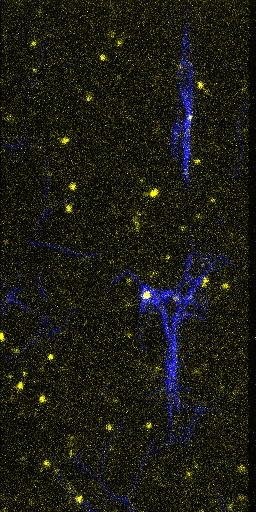
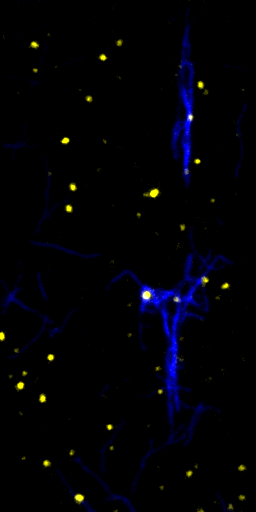
Denoise ON-to-OFF poster panels

diff --git a/parking/vis/on_to_off_panels.py b/parking/vis/on_to_off_panels.py
@@ -7,6 +7,7 @@ import matplotlib.pyplot as plt
 import numpy as np
 import tifffile
 from joblib import Parallel, delayed
+from scipy.ndimage import gaussian_filter
 
 
 ROOT = Path(__file__).resolve().parents[2]
@@ -16,8 +17,10 @@ CACHE_PATH = UNIT_DIR / "cache" / "on_to_off_panels.npz"
 OUTPUT_DIR = UNIT_DIR / "plots" / "on_off_panels"
 
 PANEL_COUNT = 5
-CONTRAST_SURVEY_FRAMES = 240
-LOW_PERCENTILE = 1.0
+TEMPORAL_WINDOW_FRAMES = 5
+SPATIAL_SMOOTH_SIGMA_PIXELS = 0.65
+ROBUST_MAD_SCALE = 1.4826
+BACKGROUND_STANDARD_DEVIATIONS = 3.0
 HIGH_PERCENTILE = 99.8
 PARALLEL_WORKERS = os.cpu_count() or 1
 
@@ -50,34 +53,85 @@ def build_cache():
         frame_count = len(tif.pages)
 
     frame_indices = np.linspace(0, frame_count - 1, PANEL_COUNT, dtype=int)
-    survey_indices = np.linspace(
-        0,
-        frame_count - 1,
-        CONTRAST_SURVEY_FRAMES,
-        dtype=int,
+    half_window = TEMPORAL_WINDOW_FRAMES // 2
+    window_indices = []
+    for frame_index in frame_indices:
+        start = min(
+            max(int(frame_index) - half_window, 0),
+            frame_count - TEMPORAL_WINDOW_FRAMES,
+        )
+        window_indices.append(
+            np.arange(start, start + TEMPORAL_WINDOW_FRAMES, dtype=int)
+        )
+    window_indices = np.asarray(window_indices)
+    source_indices = np.unique(window_indices)
+    source_frames = read_frames(source_indices).astype(np.float32)
+    source_lookup = {
+        int(frame_index): position
+        for position, frame_index in enumerate(source_indices)
+    }
+    averaged_frames = np.stack(
+        [
+            source_frames[
+                [source_lookup[int(frame_index)] for frame_index in window]
+            ].mean(axis=0)
+            for window in window_indices
+        ]
     )
-    survey_frames = read_frames(survey_indices)
-    split_column = survey_frames.shape[2] // 2
-    motor_limits = np.percentile(
-        survey_frames[:, :, :split_column],
-        [LOW_PERCENTILE, HIGH_PERCENTILE],
+
+    split_column = averaged_frames.shape[2] // 2
+    motor_frames = gaussian_filter(
+        averaged_frames[:, :, :split_column],
+        sigma=(0, SPATIAL_SMOOTH_SIGMA_PIXELS, SPATIAL_SMOOTH_SIGMA_PIXELS),
+        mode="nearest",
     )
-    selected_frames = read_frames(frame_indices)
-    rail_limits = np.percentile(
-        selected_frames[:, :, split_column:],
-        [LOW_PERCENTILE, HIGH_PERCENTILE],
+    rail_frames = gaussian_filter(
+        averaged_frames[:, :, split_column:],
+        sigma=(0, SPATIAL_SMOOTH_SIGMA_PIXELS, SPATIAL_SMOOTH_SIGMA_PIXELS),
+        mode="nearest",
+    )
+
+    motor_median = float(np.median(motor_frames))
+    motor_mad = float(np.median(np.abs(motor_frames - motor_median)))
+    motor_black = (
+        motor_median
+        + BACKGROUND_STANDARD_DEVIATIONS * ROBUST_MAD_SCALE * motor_mad
+    )
+    motor_limits = np.asarray(
+        [motor_black, np.percentile(motor_frames, HIGH_PERCENTILE)]
+    )
+
+    rail_median = np.median(rail_frames, axis=(1, 2))
+    rail_mad = np.median(
+        np.abs(rail_frames - rail_median[:, None, None]),
         axis=(1, 2),
-    ).T
+    )
+    rail_black = (
+        rail_median
+        + BACKGROUND_STANDARD_DEVIATIONS * ROBUST_MAD_SCALE * rail_mad
+    )
+    rail_white = np.percentile(
+        rail_frames,
+        HIGH_PERCENTILE,
+        axis=(1, 2),
+    )
+    rail_limits = np.column_stack((rail_black, rail_white))
 
     np.savez_compressed(
         CACHE_PATH,
         frame_indices=frame_indices,
-        survey_indices=survey_indices,
-        selected_frames=selected_frames,
+        window_indices=window_indices,
+        motor_frames=motor_frames,
+        rail_frames=rail_frames,
         motor_limits=motor_limits,
         rail_limits=rail_limits,
-        low_percentile=np.asarray(LOW_PERCENTILE),
         high_percentile=np.asarray(HIGH_PERCENTILE),
+        temporal_window_frames=np.asarray(TEMPORAL_WINDOW_FRAMES),
+        spatial_smooth_sigma_pixels=np.asarray(SPATIAL_SMOOTH_SIGMA_PIXELS),
+        robust_mad_scale=np.asarray(ROBUST_MAD_SCALE),
+        background_standard_deviations=np.asarray(
+            BACKGROUND_STANDARD_DEVIATIONS
+        ),
         parallel_workers=np.asarray(PARALLEL_WORKERS),
     )
 
@@ -89,10 +143,9 @@ def normalize_channel(image, limits):
     return np.clip(normalized, 0.0, 1.0)
 
 
-def compose_frame(frame, motor_limits, rail_limits):
-    split_column = frame.shape[1] // 2
-    motor = normalize_channel(frame[:, :split_column], motor_limits)
-    rail = normalize_channel(frame[:, split_column:], rail_limits)
+def compose_frame(motor_frame, rail_frame, motor_limits, rail_limits):
+    motor = normalize_channel(motor_frame, motor_limits)
+    rail = normalize_channel(rail_frame, rail_limits)
     return np.clip(
         motor[:, :, None] * MOTOR_YELLOW
         + rail[:, :, None] * RAIL_BLUE,
@@ -103,17 +156,17 @@ def compose_frame(frame, motor_limits, rail_limits):
 
 def export_panels(cache):
     OUTPUT_DIR.mkdir(parents=True, exist_ok=True)
-    frame_indices = cache["frame_indices"]
-    for panel_number, (frame_index, frame, rail_limits) in enumerate(
+    for panel_number, (motor_frame, rail_frame, rail_limits) in enumerate(
         zip(
-            frame_indices,
-            cache["selected_frames"],
+            cache["motor_frames"],
+            cache["rail_frames"],
             cache["rail_limits"],
         ),
         start=1,
     ):
         composite = compose_frame(
-            frame,
+            motor_frame,
+            rail_frame,
             cache["motor_limits"],
             rail_limits,
         )

diff --git a/parking/vis/README.md b/parking/vis/README.md
@@ -266,11 +266,13 @@
 ## Method
 
 - Load `data/on_to_off.tif` without changing the source file and select five evenly spaced frames spanning the full recording, including its first and last frames.
-- Split each selected 512-pixel-wide frame at its centre column. Treat the left half as motor fluorescence and the right half as DNA-rail fluorescence from the same scene and timepoint.
-- Determine one fixed motor display range from the 1st and 99.8th percentiles of motor pixels in 240 evenly spaced survey frames. Apply this same motor range to all five panels so motor changes remain visually comparable through time.
-- The raw rail channel photobleaches substantially. For the structural rail overlay only, apply the same 1st-to-99.8th-percentile contrast rule separately to each selected rail frame. This prevents the progressively white, overexposed rail appearance in the old GIF while preserving each frame's rail geometry.
+- Replace each selected single frame with the pixelwise mean of five consecutive raw frames centered on it when possible. Use the first five source frames for the first panel and the last five for the last panel. This suppresses frame-specific detector noise without averaging across distant experimental times.
+- Split each five-frame average at its centre column. Treat the left half as motor fluorescence and the right half as DNA-rail fluorescence from the same scene and local time window.
+- Apply a light Gaussian spatial smoothing with sigma 0.65 pixels separately to the motor and rail halves. Smoothing occurs after temporal averaging and never crosses the boundary between channels.
+- Define one motor black point as the median of all five cleaned motor images plus three robust standard deviations, where robust standard deviation is `1.4826 × median absolute deviation`. Define one motor white point as their pooled 99.8th percentile. Apply these same two motor limits to every panel so the motor progression remains comparable through time and background noise maps to black.
+- The raw rail channel photobleaches substantially. For the structural rail overlay only, calculate the same robust black point and 99.8th-percentile white point separately in each cleaned rail image. This prevents the progressively white, overexposed rail appearance in the old GIF while preserving each window's rail geometry.
 - Apply the standard ImageJ/Fiji yellow monochrome lookup table to normalized motor intensity and the blue monochrome lookup table to normalized rail intensity. Add the two RGB layers and clip at white, so motor is yellow, rail is blue, and spatial overlap is white.
-- Export each composite directly as a native-resolution lossless PNG without axes, labels, timestamps, borders, interpolation, cropping, denoising, segmentation, or spatial realignment.
+- Export each composite directly as a native-resolution lossless PNG without axes, labels, timestamps, borders, interpolation, cropping, segmentation, or spatial realignment.
 - Write the five separate images to `plots/on_off_panels/`.
 
 ## Variables
@@ -278,26 +280,29 @@
 - Data/input: `data/on_to_off.tif`, containing 2,000 raw 16-bit frames of 512 rows by 512 columns.
 - Selected zero-based frames: 0, 499, 999, 1,499, and 1,999.
 - Selected elapsed times: 0.00, 17.34, 37.03, 56.57, and 76.00 minutes from the embedded TIFF timestamps.
+- Five-frame averaging windows: 0–4, 497–501, 997–1,001, 1,497–1,501, and 1,995–1,999.
 - Panel mapping: columns 0–255 are motor proteins; columns 256–511 are DNA rails.
-- Motor contrast survey: 240 evenly spaced frames, including the recording endpoints.
-- Fixed motor display range: 311 to 2,319 raw detector units.
-- Rail display ranges: 314–10,062; 315–5,761; 314–4,601; 315–3,719; and 312–3,223 raw detector units for the five selected frames, respectively.
+- Temporal filter: arithmetic mean of five adjacent raw frames.
+- Spatial filter: Gaussian sigma 0.65 pixels, applied independently to each channel.
+- Robust black-point rule: median plus `3 × 1.4826 × median absolute deviation`.
+- Fixed motor display range after denoising: 695 to 1,923 detector units.
+- Rail display ranges after denoising: 796–8,969; 624–5,038; 590–4,072; 577–3,208; and 568–2,737 detector units for the five selected windows, respectively.
 - Lookup-table endpoints: motor yellow `[1, 1, 0]`; rail blue `[0, 0, 1]`; additive overlap is white `[1, 1, 1]`.
-- Compute: 64 CPU workers read disjoint TIFF frame chunks; the selected raw frames, indices, and display limits are stored in `cache/on_to_off_panels.npz`.
+- Compute: up to 64 CPU workers read disjoint TIFF frame chunks; the averaged and smoothed channel images, source-window indices, display limits, and filter parameters are stored in `cache/on_to_off_panels.npz`.
 - Outputs: `plots/on_off_panels/on_to_off_01.png` through `on_to_off_05.png`, each 256 pixels wide by 512 pixels high.
 
 ## Statistics
 
 - None; these outputs are descriptive poster images.
 - No null hypothesis, alternative hypothesis, statistical threshold, fitted model, or test is used.
-- The percentile rules control display contrast only. They do not classify motor-positive pixels or measure rail or motor fluorescence.
-- The fixed motor range is appropriate because it preserves motor brightness comparability through time. The per-frame rail range is appropriate only because the rail is used here as a structural location guide and the user requested correction of its misleading progressive exposure.
+- The temporal mean, Gaussian filter, and contrast rules are visualization transforms. They do not classify motor-positive pixels or measure rail or motor fluorescence.
+- The fixed motor range is appropriate because it preserves motor brightness comparability through time. The per-window rail range is appropriate only because the rail is used here as a structural location guide and the user requested correction of its misleading progressive exposure.
 
 ## Legends
 
 - X axis: image x-coordinate; no axis or tick labels are drawn.
 - Y axis: image y-coordinate; no axis or tick labels are drawn.
-- Color/value: yellow intensity is the normalized raw motor signal; blue intensity is the normalized raw DNA-rail signal; white indicates additive spatial overlap of strong motor and rail signals; black indicates low signal in both channels.
+- Color/value: yellow intensity is the normalized, locally averaged motor signal; blue intensity is the normalized, locally averaged DNA-rail signal; white indicates additive spatial overlap of strong motor and rail signals; black indicates signal at or below the robust channel background.
 - Grouping: five paired motor-plus-rail composites from one ON-to-OFF recording.
 - Ordering/sorting: filenames 01 through 05 follow acquisition order from 0 to approximately 76 minutes.
 - Lines/markers/labels: none; each file contains only the composite microscopy image.
@@ -306,13 +311,16 @@
 ## Interpretation
 
 - The five images show the motor-channel progression across the full ON-to-OFF recording while keeping the rail in the intended blue and the motor in yellow.
-- The rail layer no longer changes progressively from blue to blown-out white because every selected rail frame receives the same tightly clipped contrast rule.
-- These are display composites for the poster. They should not be used to compare rail intensity between timepoints because the rail contrast is normalized separately in each frame.
+- Temporal averaging and light spatial smoothing remove the isolated high-frequency yellow and blue speckle visible in the single-frame version, while the robust black points make empty regions black.
+- The rail layer no longer changes progressively from blue to blown-out white because every selected rail window receives the same contrast rule.
+- These are display composites for the poster. They should not be used to compare rail intensity between timepoints because the rail contrast is normalized separately in each window.
 
 ## Notes
 
 - The TIFF metadata stores grayscale ImageJ lookup tables only; it does not preserve the poster's original pseudocolor assignment. Blue rails and yellow motors were inferred from the supplied poster reference and reproduced with ImageJ/Fiji's standard monochrome channel colors.
-- The raw source values remain unchanged. Pseudocoloring and contrast mapping affect only the exported RGB display images.
+- The TIFF source remains unchanged. The PNGs are no longer single raw frames: each is a deliberately denoised display composite built from five nearby raw frames.
+- Five-frame means can soften or slightly elongate a motor that moves during its local window. The short window was chosen to reduce noise without pooling distant stages of the experiment.
+- Robust black clipping intentionally hides low-amplitude background fluctuations. Quantitative analyses continue to use the raw TIFF rather than these PNGs.
 - The outputs use the full raw field of view and native pixel dimensions. Upscaling should be done only at poster placement time if required; it would not add image information.
 - The existing middle-frame PDFs, timing plot, and overview MP4 files in this unit are unchanged.
 
